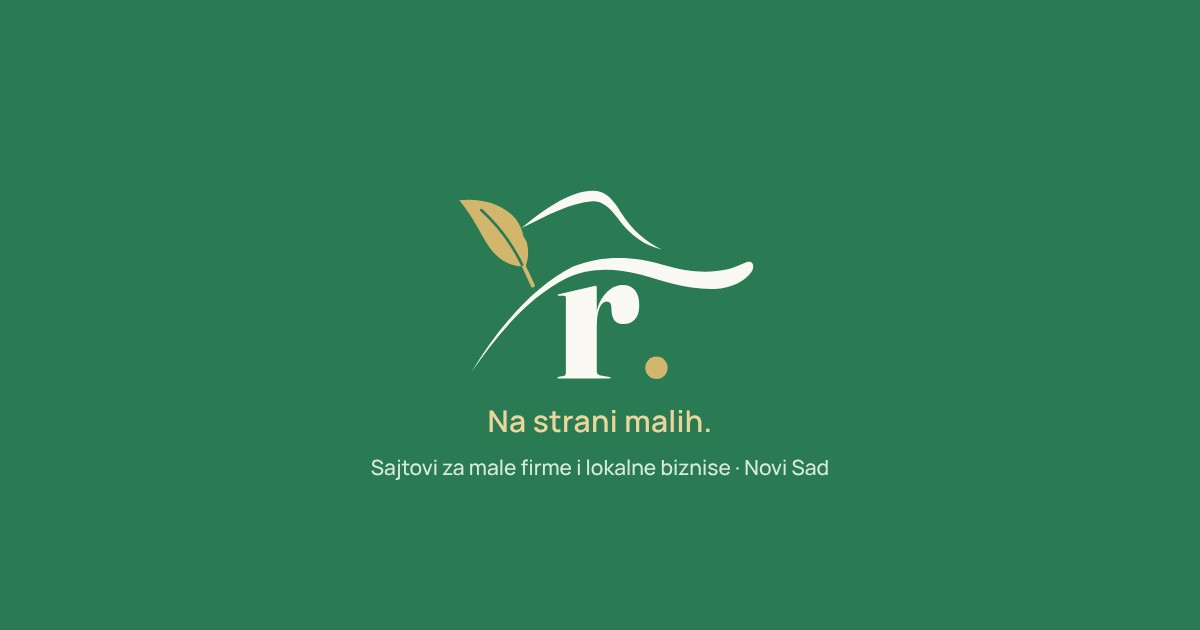
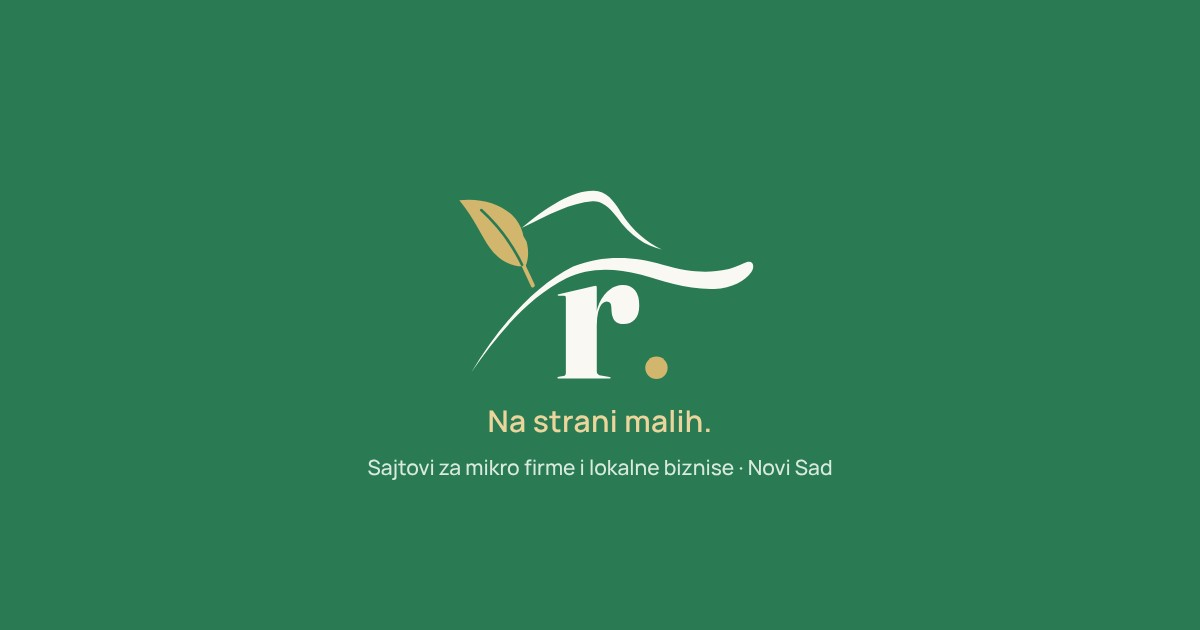
Say "mikro firme" instead of "male firme" in Serbian copy, SEO titles and share image
Claude-Session: https://claude.ai/code/session_0137GWbS2cUQ9nRC8PH2tgcS

Changed region(s): [[0.3083, 0.7238, 0.7092, 0.754]]

diff --git a/src/content/landing.ts b/src/content/landing.ts
@@ -36,13 +36,13 @@ export type LandingPage = {
 export const landingPages: LandingPage[] = [
   {
     path: "/izrada-sajtova-novi-sad",
-    seoTitle: "Izrada sajtova Novi Sad za male firme | rebule. digital",
+    seoTitle: "Izrada sajtova Novi Sad za mikro firme | rebule. digital",
     seoDescription:
-      "Izrada brzih, modernih sajtova za male firme u Novom Sadu i Vojvodini. Fiksna cena unapred, izrada za 7 do 14 radnih dana, direktan rad sa developerom.",
+      "Izrada brzih, modernih sajtova za mikro firme u Novom Sadu i Vojvodini. Fiksna cena unapred, izrada za 7 do 14 radnih dana, direktan rad sa developerom.",
     navLabel: "Izrada sajtova Novi Sad",
     serviceName: "Izrada sajtova u Novom Sadu",
     kicker: "Web studio iz Novog Sada",
-    title: "Izrada sajtova u Novom Sadu za male firme.",
+    title: "Izrada sajtova u Novom Sadu za mikro firme.",
     intro:
       "Pravim sajtove za lokalne firme iz Novog Sada i Vojvodine: salone, majstore, konsultante i investitore. Radite direktno sa mnom, od prvog razgovora do lansiranja, bez posrednika.",
     problemsTitle: "Zašto lokalnoj firmi treba sajt",
@@ -100,7 +100,7 @@ export const landingPages: LandingPage[] = [
     path: "/cene-izrade-sajta",
     seoTitle: "Cena izrade sajta: paketi i šta dobijate | rebule. digital",
     seoDescription:
-      "Koliko košta izrada sajta za malu firmu: paketi Start, Biznis i Zakazivanje, održavanje i šta je uključeno. Fiksna cena unapred, bez skrivenih troškova.",
+      "Koliko košta izrada sajta za mikro firmu: paketi Start, Biznis i Zakazivanje, održavanje i šta je uključeno. Fiksna cena unapred, bez skrivenih troškova.",
     navLabel: "Cene izrade sajta",
     serviceName: "Izrada sajta: cene i paketi",
     kicker: "Cene",
@@ -173,7 +173,7 @@ export const landingPages: LandingPage[] = [
       },
       {
         title: "Skupe aplikacije za zakazivanje",
-        text: "Za mnoge male firme je zakazivanje porukom dovoljno, bez mesečne pretplate na aplikaciju.",
+        text: "Za mnoge mikro firme je zakazivanje porukom dovoljno, bez mesečne pretplate na aplikaciju.",
       },
     ],
     featuresTitle: "Šta dobijate",
@@ -336,7 +336,7 @@ export const landingPages: LandingPage[] = [
     path: "/odrzavanje-sajta",
     seoTitle: "Održavanje sajta: hosting i izmene | rebule. digital",
     seoDescription:
-      "Mesečno održavanje sajta za male firme: hosting i SSL, backup, praćenje dostupnosti i izmene sadržaja. Bez brige o tehničkim stvarima.",
+      "Mesečno održavanje sajta za mikro firme: hosting i SSL, backup, praćenje dostupnosti i izmene sadržaja. Bez brige o tehničkim stvarima.",
     navLabel: "Održavanje sajta",
     serviceName: "Održavanje sajta",
     kicker: "Održavanje i podrška",

diff --git a/src/content/ui.ts b/src/content/ui.ts
@@ -26,7 +26,7 @@ const sr = {
   theme: { toLight: "Uključi svetlu temu", toDark: "Uključi tamnu temu" },
   footer: {
     servicesNav: "Usluge",
-    tagline: "Web studio za male firme.",
+    tagline: "Web studio za mikro firme.",
     rights: "Sva prava zadržana.",
     privacy: "Politika privatnosti",
     linkedinAria: "LinkedIn profil Bojana Crnića",
@@ -34,7 +34,7 @@ const sr = {
     emailAria: "Pošaljite email",
   },
   hero: {
-    titleStart: "Izrada sajtova za male firme u ",
+    titleStart: "Izrada sajtova za mikro firme u ",
     titleAccent: "Novom Sadu.",
     lede: "Sajtovi koji donose klijente. Web studio Bojana Crnića: pravim brze, jasne i moderne sajtove za firme iz Novog Sada, Vojvodine i cele Srbije, od ideje do lansiranja.",
     viewWork: "Pogledaj radove",
@@ -48,7 +48,7 @@ const sr = {
   services: {
     eyebrow: "Usluge",
     title: "Izrada sajtova i zakazivanje termina za vaš posao.",
-    text: "Za male firme iz Novog Sada i cele Srbije. Bez komplikovanja i skrivenih troškova: brz, jasan sajt napravljen prema stvarnim potrebama vaših klijenata.",
+    text: "Za mikro firme iz Novog Sada i cele Srbije. Bez komplikovanja i skrivenih troškova: brz, jasan sajt napravljen prema stvarnim potrebama vaših klijenata.",
   },
   pricing: {
     eyebrow: "Cene",
@@ -89,7 +89,7 @@ const sr = {
     eyebrow: "O meni",
     title: "Web developer iz Novog Sada. Direktna saradnja, velika pažnja.",
     hello: "Zdravo, ja sam Bojan.",
-    p1: "Full-stack developer i osnivač studija rebule. digital. Pomažem malim firmama da dobiju sajt koji im donosi klijente.",
+    p1: "Full-stack developer i osnivač studija rebule. digital. Pomažem mikro firmama da dobiju sajt koji im donosi klijente.",
     p2: "Radim direktno sa vlasnicima, bez posrednika i dugih procesa. To znači bržu komunikaciju, jasne rokove i rešenje prilagođeno vašem poslu.",
     portraitAlt: "Bojan Crnić, osnivač studija rebule. digital",
   },

diff --git a/src/lib/site.ts b/src/lib/site.ts
@@ -2,13 +2,13 @@ const env = import.meta.env;
 
 export const SITE_URL = (env.VITE_SITE_URL ?? "https://rebule.rs").replace(/\/$/, "");
 export const SITE_NAME = "rebule. digital";
-export const SITE_TITLE = "Izrada sajtova Novi Sad za male firme | rebule. digital";
+export const SITE_TITLE = "Izrada sajtova Novi Sad za mikro firme | rebule. digital";
 export const SITE_DESCRIPTION =
-  "Izrada sajtova u Novom Sadu za male firme: brzi, moderni sajtovi i zakazivanje termina, fiksna cena unapred. Web studio Bojana Crnića.";
+  "Izrada sajtova u Novom Sadu za mikro firme: brzi, moderni sajtovi i zakazivanje termina, fiksna cena unapred. Web studio Bojana Crnića.";
 export const SITE_TITLE_EN = "Website design for small businesses | rebule. digital";
 export const SITE_DESCRIPTION_EN =
   "Fast, modern websites and online booking for small businesses in Serbia and abroad. Fixed price agreed upfront. Web studio of Bojan Crnić from Novi Sad.";
-export const OG_IMAGE = `${SITE_URL}/og-image.jpg?v=7`;
+export const OG_IMAGE = `${SITE_URL}/og-image.jpg?v=8`;
 
 export const FOUNDER = {
   name: "Bojan Crnić",

diff --git a/src/lib/schema.ts b/src/lib/schema.ts
@@ -10,7 +10,7 @@ import {
 } from "@/lib/site";
 
 const services = [
-  { name: "Izrada sajtova za male firme", path: "/izrada-sajtova-novi-sad" },
+  { name: "Izrada sajtova za mikro firme", path: "/izrada-sajtova-novi-sad" },
   { name: "Online zakazivanje termina", path: "/online-zakazivanje-termina" },
   { name: "Sajt za frizerski i kozmetički salon", path: "/sajt-za-frizerski-salon" },
   { name: "Sajt za majstore i zanatlije", path: "/sajt-za-majstore" },

diff --git a/src/content/home.ts b/src/content/home.ts
@@ -13,7 +13,7 @@ export type Service = {
 export const services: Service[] = [
   {
     icon: Globe2,
-    title: "Sajtovi za male firme",
+    title: "Sajtovi za mikro firme",
     path: "/izrada-sajtova-novi-sad",
     text: "Jasna ponuda, profesionalan utisak i više pravih upita za vaš posao.",
   },

diff --git a/README.md b/README.md
@@ -1,4 +1,4 @@
-# rebule. digital - Web studio za male firme
+# rebule. digital - Web studio za mikro firme
 
 Zvanični vebsajt i portfolio studija **rebule. digital** (osnivač Bojan Crnić). Specijalizovan za izradu brzih, modernih sajtova i sistema za zakazivanje za lokalne firme i preduzetnike.
 
